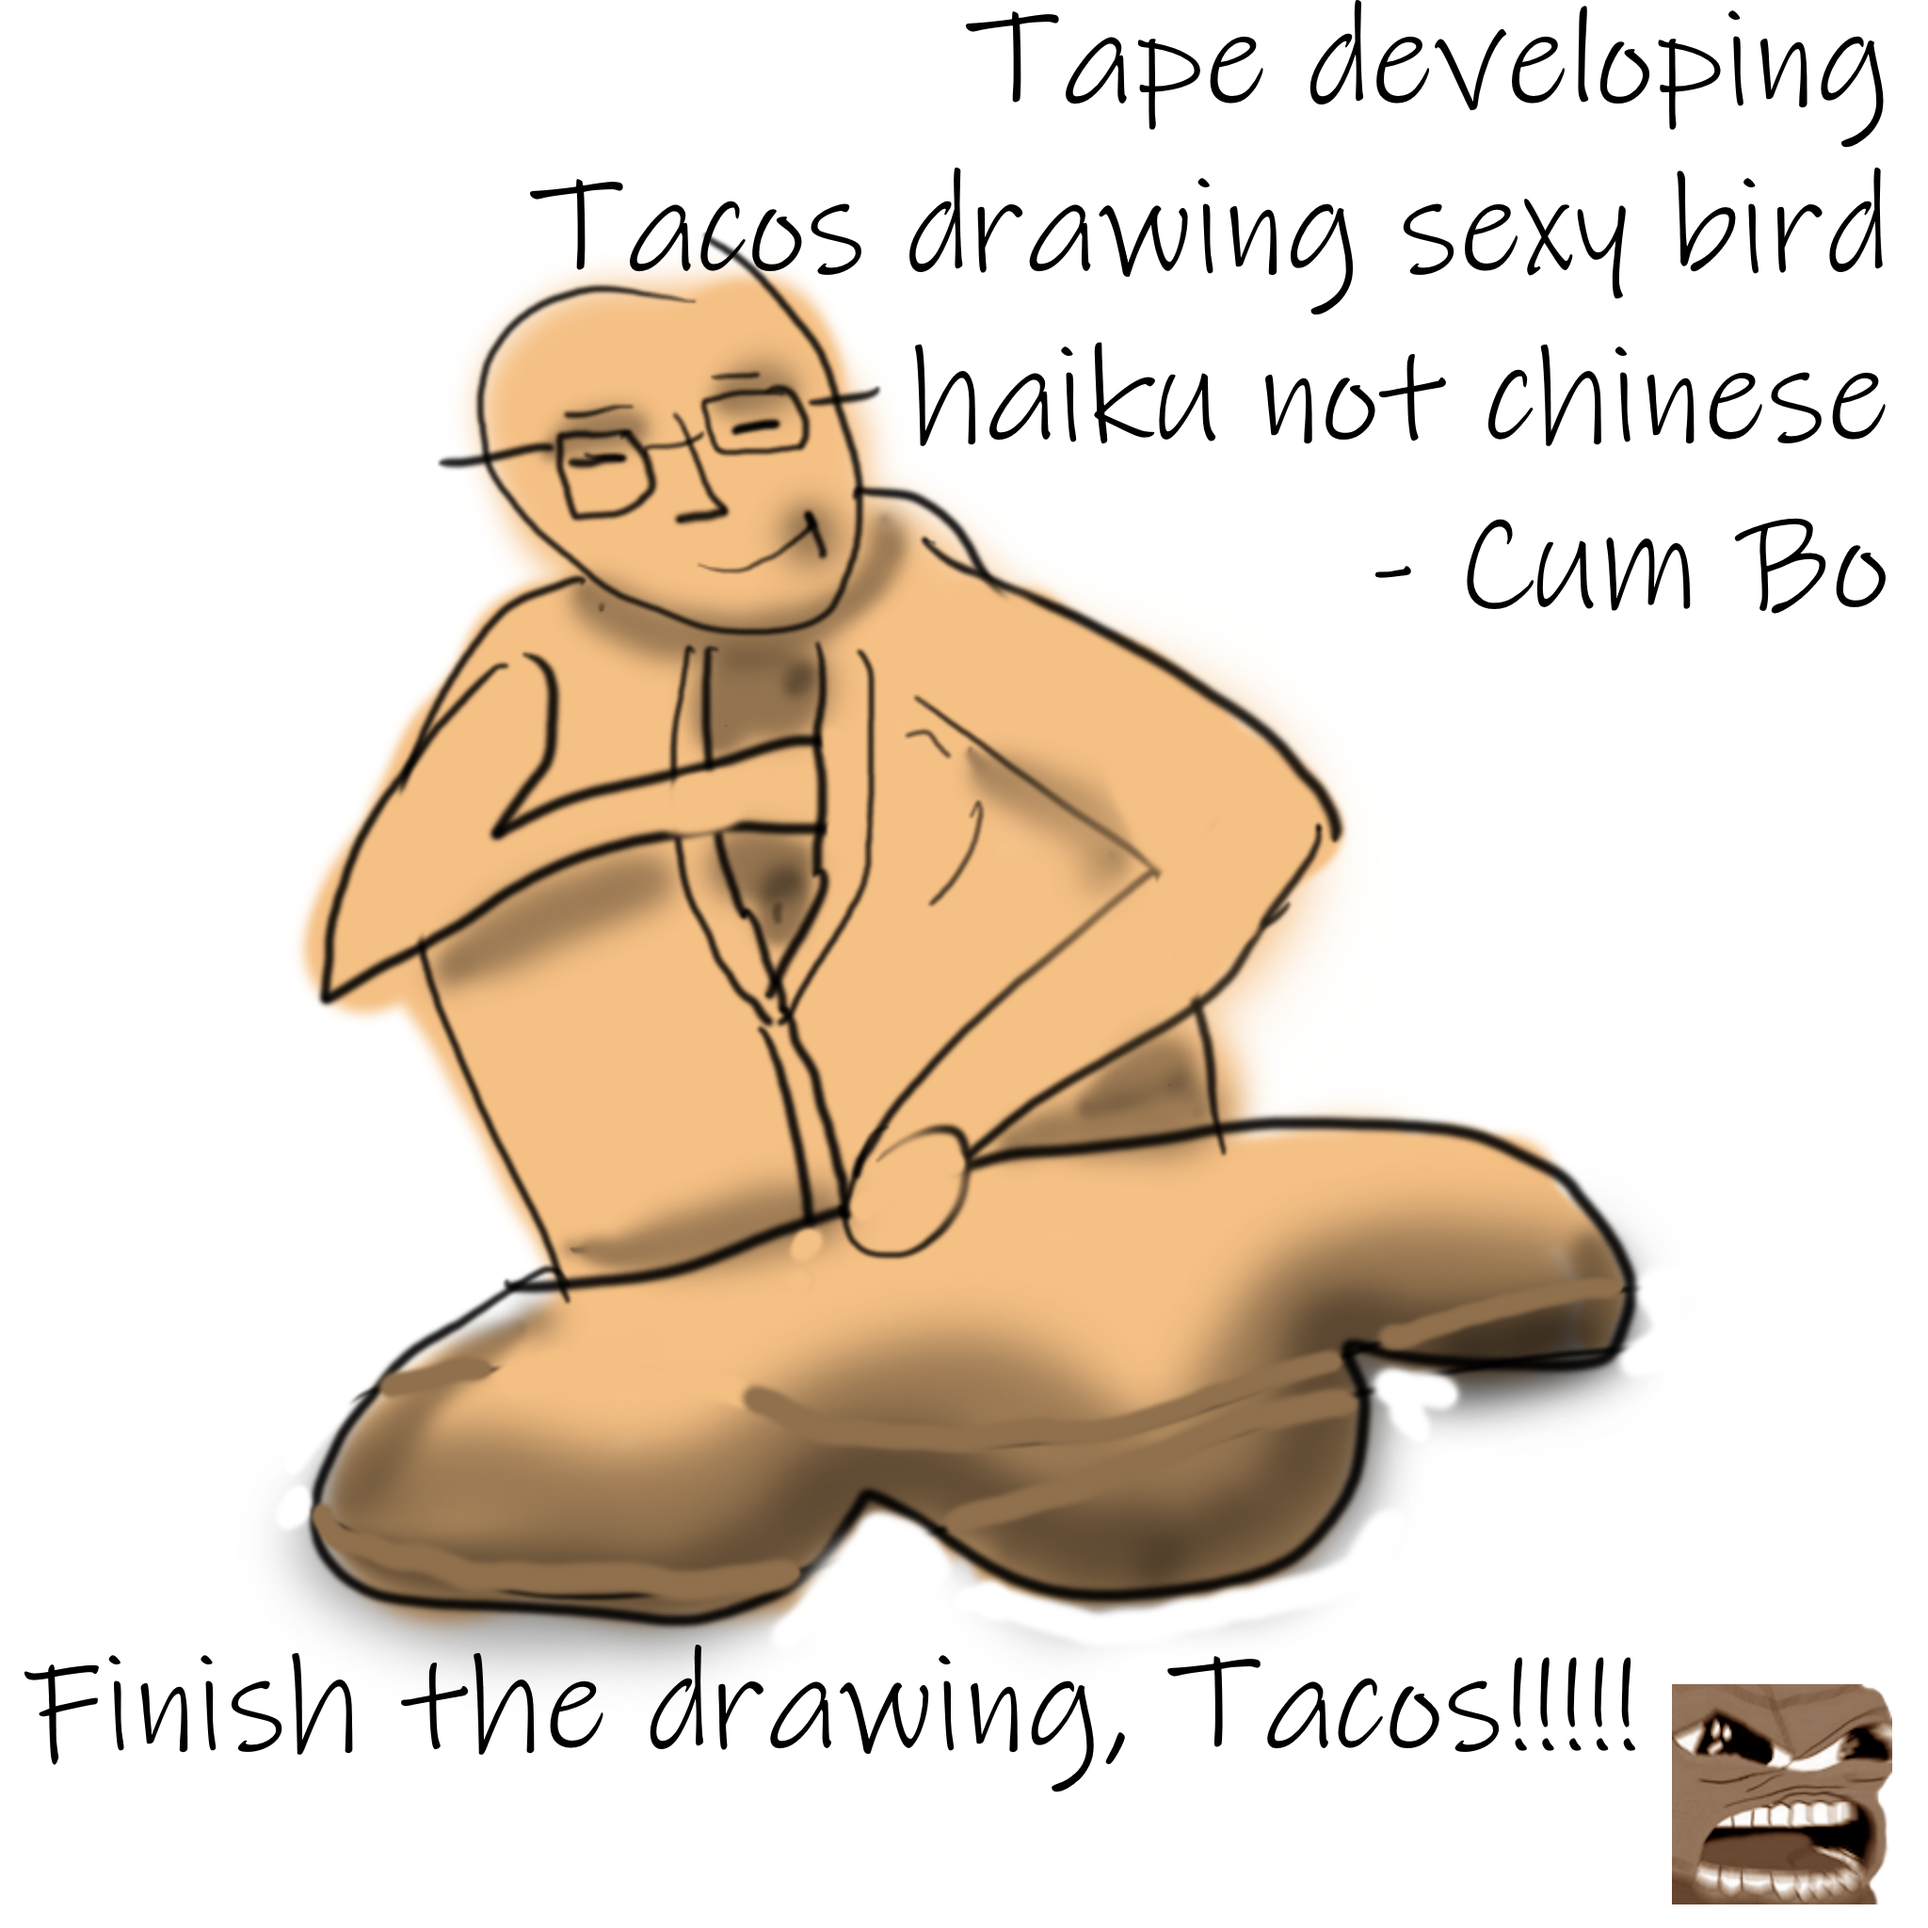
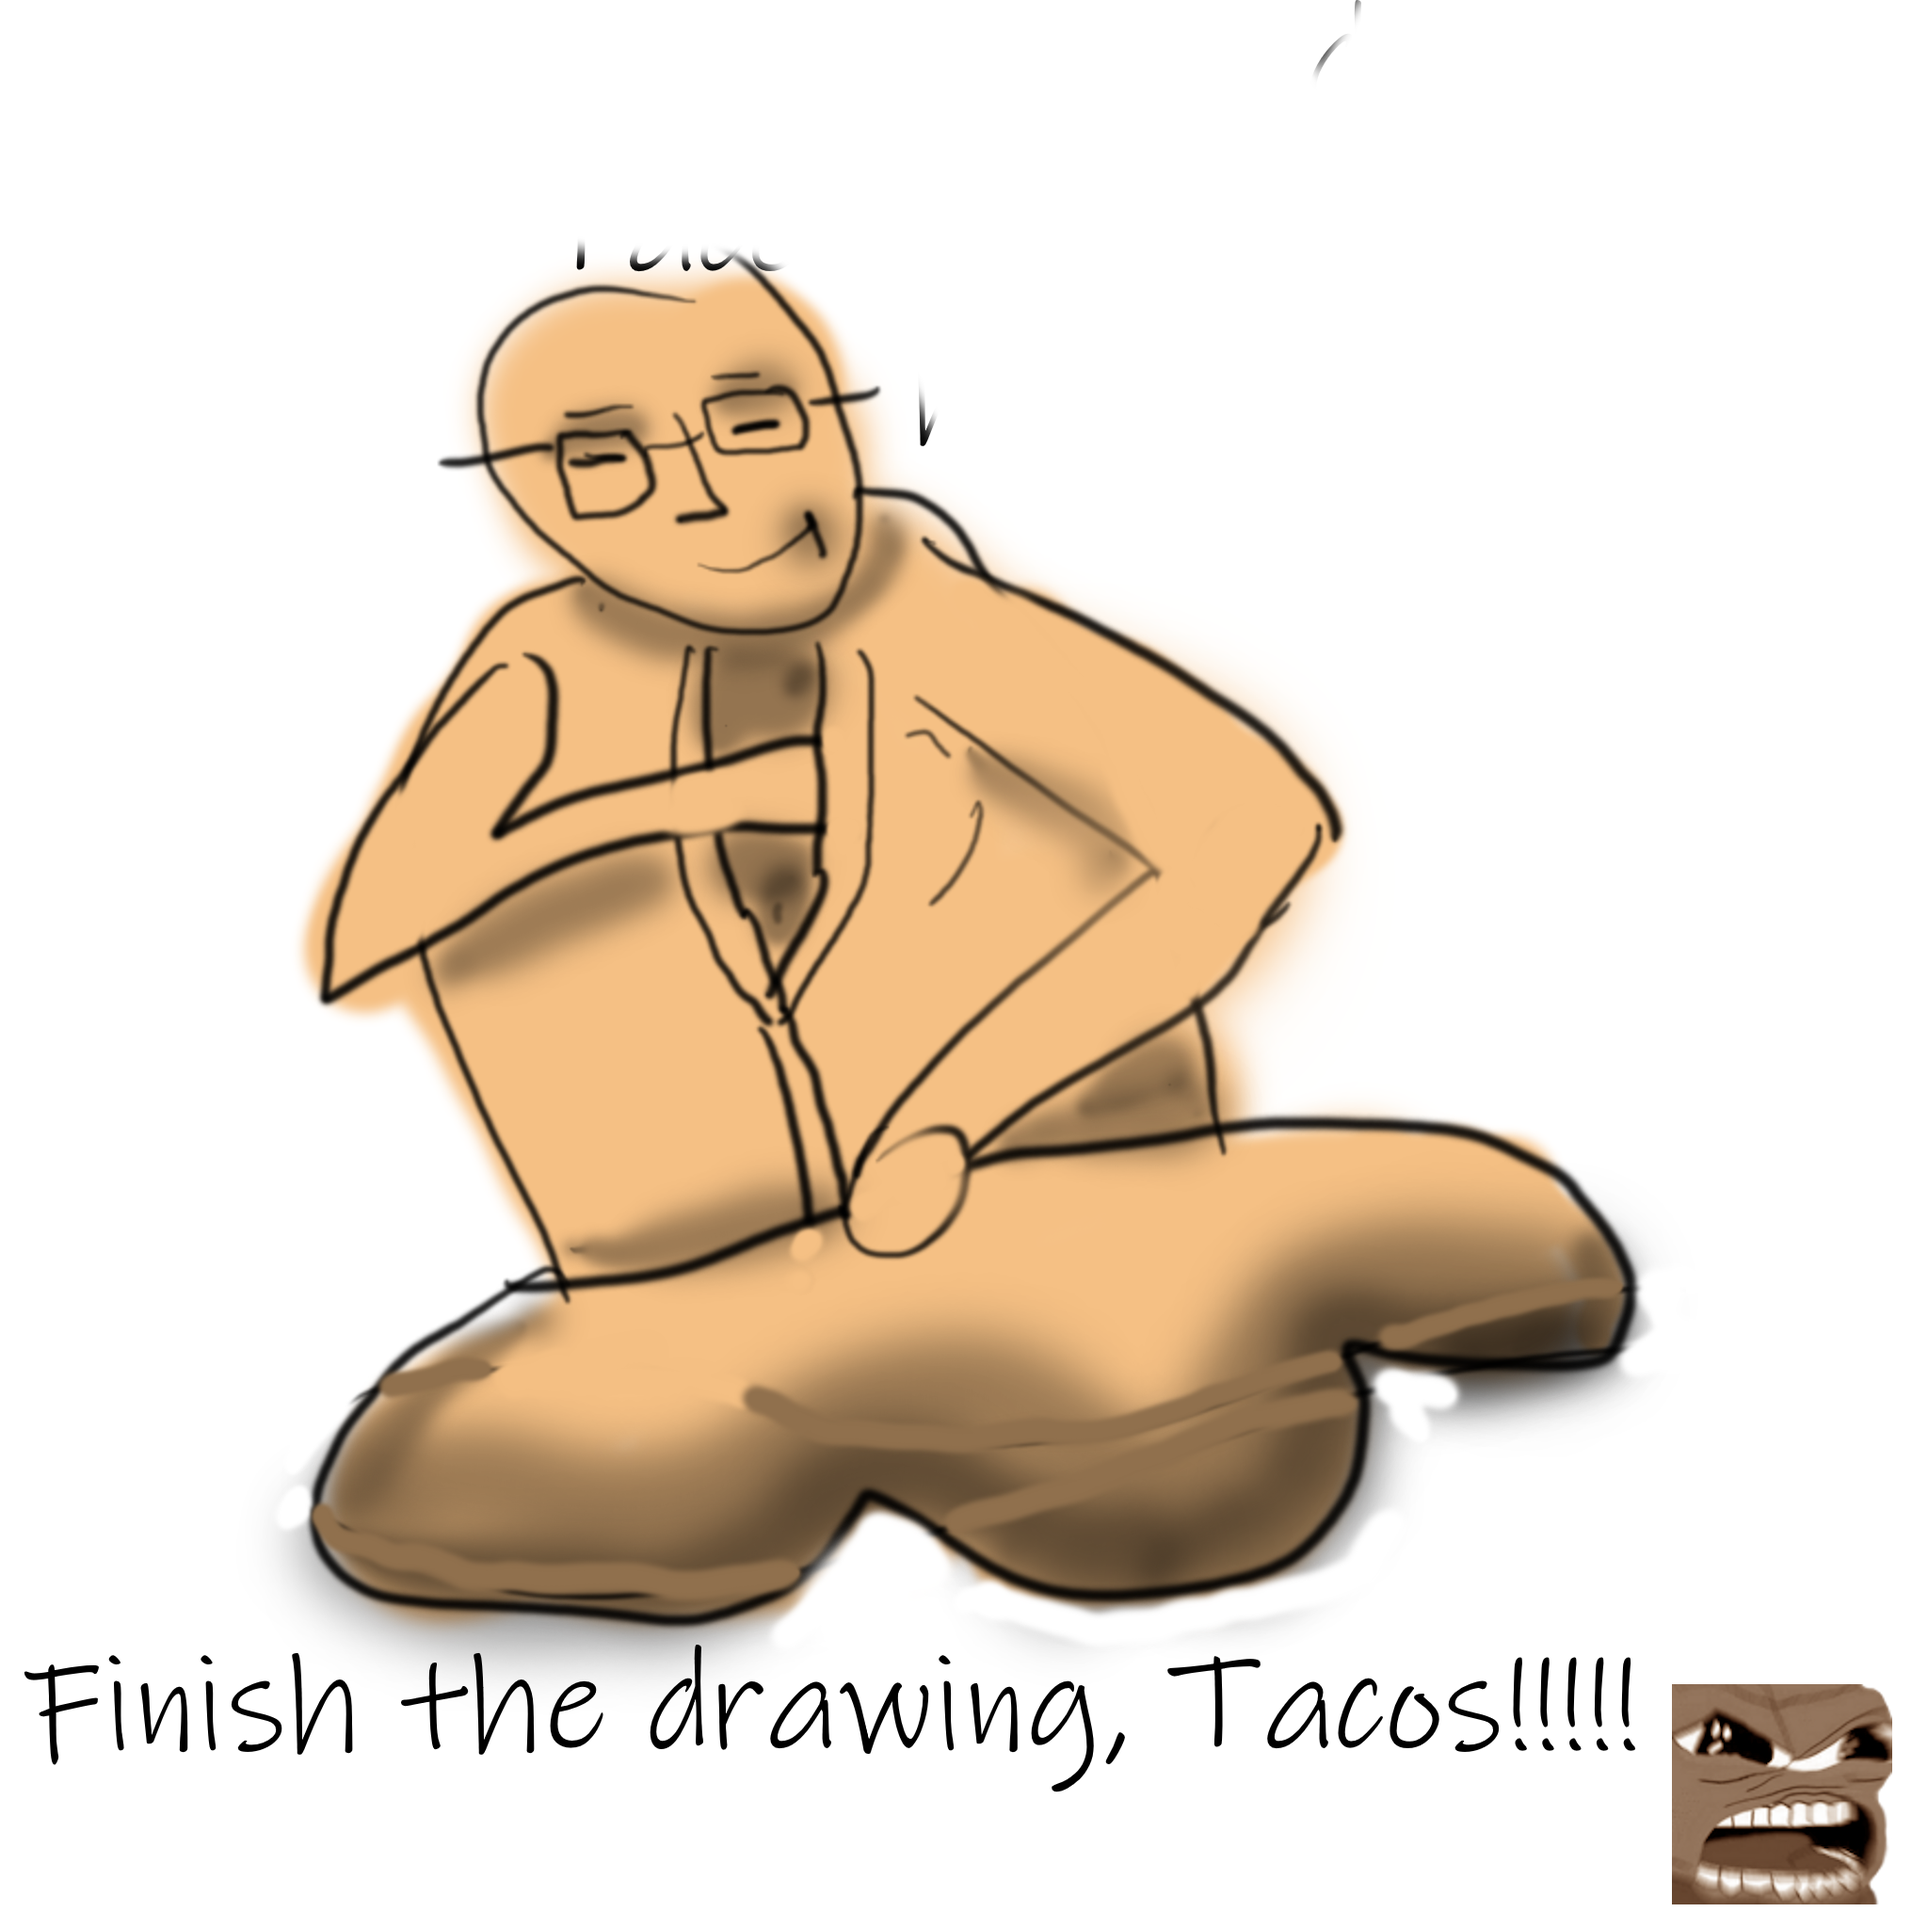
add haikus

diff --git a/src/haikus.js b/src/haikus.js
@@ -1,0 +1,260 @@
+const baldFatOld = [
+    `Moonmoon entertains,
+Chubby and bald, he streams on,
+Laughs echo brightly.`,
+
+    `Twitch's jolly moon,
+Chubby cheeks, laughter consumes,
+Streaming joy he brings.`,
+
+    `Bald head shines so bright,
+Moonmoon's voice fills the night sky,
+Fans rejoice with glee.`,
+
+    `Moonmoon's belly sways,
+Laughter ripples through the stream,
+Hearts warmed by his charm.`,
+
+    `In his gaming den,
+Moonmoon, a Twitch delight,
+Laughs shake the server.`,
+
+    `Fat and bald he stands,
+Moonmoon, a beacon of fun,
+Streaming brings us joy.`,
+
+    `Chuckles from the void,
+Moonmoon's stream, a sanctuary,
+Baldness fuels his might.`,
+
+    `Twitch's round hero,
+Moonmoon's laughter takes control,
+Fat and bald, love grows.`,
+
+    `Moonmoon on Twitch's stage,
+Chubby cheeks, a comic sage,
+Laughs erupt, hearts engage.`,
+
+    `Bald head, radiant,
+Moonmoon's streams bring mirth and cheer,
+Fans embrace the moon.`
+];
+
+const angryAtChat = [
+    `Moonmoon rages fierce,
+    Bald head gleaming in the light,
+    Chat fuels his anger.`,
+
+    `Twitch chat provokes,
+Fat and bald, Moonmoon seethes,
+Emotes flow like tears.`,
+
+    `Moonmoon, the streamer,
+Chat trolls, mocking his physique,
+Rage consumes his soul.`,
+
+    `Bald head glistens bright,
+Moonmoon's anger takes flight,
+Chat's words fuel his spite.`,
+
+    `Old and overweight,
+Moonmoon's wrath can't abate,
+Twitch chat bears his weight.`,
+
+    `Moonmoon's fiery glare,
+Bald and round, he cannot bear,
+Twitch chat's taunting snare.`,
+
+    `Stream filled with disdain,
+Moonmoon, bald and full of pain,
+Chat's insults remain.`,
+
+    `Angry streamer's plight,
+Moonmoon's rage burns through the night,
+Bald head reflects light.`,
+
+    `Moonmoon, overweight,
+Twitch chat fuels his deep hate,
+Bald and raging fate.`,
+
+    `Bald and fat, Moonmoon,
+Twitch chat fuels his furious tune,
+Madness blooms too soon.`
+];
+
+const goodAtGames = [
+    `Moonmoon's bald head shines,
+Streaming mastery displayed,
+Victorious games.`,
+
+    `On Twitch he sits proud,
+Old and wise, a gaming sage,
+Moonmoon's reign begins.`,
+
+    `Fierce skills on display,
+Fat and bald, a gaming god,
+Moonmoon conquers all.`,
+
+    `Chat erupts in cheer,
+Moonmoon's gameplay astounds,
+Victory is near.`,
+
+    `In pixels he thrives,
+Master of virtual worlds,
+Moonmoon's dominance.`,
+
+    `A streamer's delight,
+Moonmoon's expertise amazes,
+Fat, bald, and divine.`,
+
+    `Silent but deadly,
+Moonmoon's gaming prowess,
+Old streamer's triumph.`,
+
+    `Bald head, no regret,
+Moonmoon's gaming expertise,
+A legend is born.`,
+
+    `Plump and bald he streams,
+Moonmoon's gaming greatness shines,
+Twitch fans are in awe.`,
+
+    `Through pixels he soars,
+Moonmoon, the gaming titan,
+Old, fat, and bald star.`
+]
+
+const wisdom = [
+    `Moonmoon's vast wisdom,
+Streaming tales of knowledge deep,
+Bald head shines so bright.`,
+
+    `Old and fat he sits,
+Streaming wisdom through the night,
+Moonmoon's radiant.`,
+
+    `Twitch's wise old sage,
+Moonmoon shares his knowledge wide,
+Bald head, thoughts untamed.`,
+
+    `In chat, minds expand,
+Moonmoon's wisdom flows like stream,
+Bald beacon of light.`,
+
+    `A bald moonlight glow,
+Fat and wise, Moonmoon's stream shines,
+Knowledge, a river.`,
+
+    `Stream's currents whisper,
+Moonmoon's wisdom fills the air,
+Bald truth spoken loud.`,
+
+    `A moon's ancient face,
+Bald, fat, and filled with wisdom,
+Streamer's knowledge glows.`,
+
+    `Moonmoon's stream unfolds,
+Ancient tales and knowledge old,
+Bald head, streams of gold.`,
+
+    `Bald streamer, Moonmoon,
+Knowledgeable and profound,
+Wisdom never wanes.`,
+
+    `Old and wise, Moonmoon,
+Streaming wisdom through the night,
+Baldness, his power.`
+]
+
+const advice = [
+    `Listen, young ones,
+Avoid eating spicy snacks,
+To spare your butts' wrath.`,
+
+    `Embrace your baldness,
+Shine like a polished beacon,
+Hats are overrated.`,
+
+    `Don't be a stream snipe,
+Fortune favors those patient,
+Patience is a gift.`,
+
+    `Games won't fix your life,
+Seek a balance, find your joy,
+Real friends don't lag.`,
+
+    `Treat trolls with kindness,
+They're lost souls seeking laughter,
+Your chat reflects you.`,
+
+    `Toxicity, no!
+Spread positivity, bro,
+Banhammer shall strike.`,
+
+    `Stream late into night,
+But remember sleep's delight,
+Stream health, stay bright.`,
+
+    `Beware the dark web,
+Protect your passwords with care,
+Chat is full of spies.`,
+
+    `When raiding small streams,
+Lift spirits, spread love and cheer,
+Moonmoon's here, my dears.`,
+
+    `In the realm of memes,
+Embrace the silly and dumb,
+Laughter's therapy.`,
+]
+
+const vasectomy = [
+    `MoonMoon's rage flows on,
+Angry words from his chat flood,
+Get snipped, no more trolls.`,
+
+    `In the chat you lurk,
+    Vasectomy you need,
+    Silence your offspring.`,
+
+    `Words can't hurt my soul,
+Snip those cords, let the hate go,
+    Vasectomy, bro.`,
+
+    `Trolls breeding like flies,
+    Vasectomy, their demise,
+    Chat's peace shall arise.`,
+
+    `Angry streamer roars,
+Vasectomy for trolls,
+Silence, he implores.`,
+
+    `My words cut you deep,
+A vasectomy would keep,
+Silence, peace, and sleep.`,
+
+    `Troll, cease your typing,
+Vasectomy, no more griping,
+Silence, pure delight.`,
+
+    `Vasectomy plea,
+Barren chat, set us all free,
+Peace, tranquility.`,
+
+    `Anger fills my screen,
+Vasectomy, I deem,
+Silence reigns supreme.`,
+
+    `Troll's words sting and bite,
+Vasectomy, end the fight,
+Silence, find your light.`
+];
+
+const combined = [
+    ...angryAtChat,
+    ...wisdom,
+    ...advice,
+    ...vasectomy
+]
+
+export const haikus = combined.sort(() => Math.random() - 0.5);

diff --git a/index.html b/index.html
@@ -17,12 +17,31 @@
 			mix-blend-mode: multiply;
 			opacity: 0.09;
 		}
+
+		body {
+			font-family: 'Macondo', cursive;
+		}
+
+		.haiku {
+			white-space: pre;
+			font-size: 4vmin;
+			position: absolute;
+			top: 5%;
+			left: 30%;
+			transform: translate(0, 0);
+		}
 	</style>
+
+	<link rel="preconnect" href="https://fonts.googleapis.com">
+	<link rel="preconnect" href="https://fonts.gstatic.com" crossorigin>
+	<link href="https://fonts.googleapis.com/css2?family=Macondo&display=swap" rel="stylesheet">
 </head>
 
 <body>
 	<script type="module" src="/src/main.js"></script>
 	<div class="noise"></div>
+
+	<div class="haiku">example</div>
 </body>
 
 </html>

diff --git a/src/main.js b/src/main.js
@@ -301,3 +301,25 @@ function waveResize() {
 }
 window.addEventListener('resize', waveResize);
 waveResize();
+
+
+
+
+const haikuContainer = document.querySelector('.haiku');
+import { haikus } from './haikus.js';
+let haikuIndex = -1;
+async function haikuFunction() {
+	haikuIndex++;
+	if (haikuIndex >= haikus.length) haikuIndex = 0;
+
+	const haiku = haikus[haikuIndex];
+	haikuContainer.innerHTML = '';
+	for (let i = 0; i < haiku.length; i++) {
+		haikuContainer.innerHTML += haiku[i];
+		await new Promise(r => setTimeout(r, 30));
+	}
+};
+
+setInterval(haikuFunction, 30000);
+
+haikuFunction();
